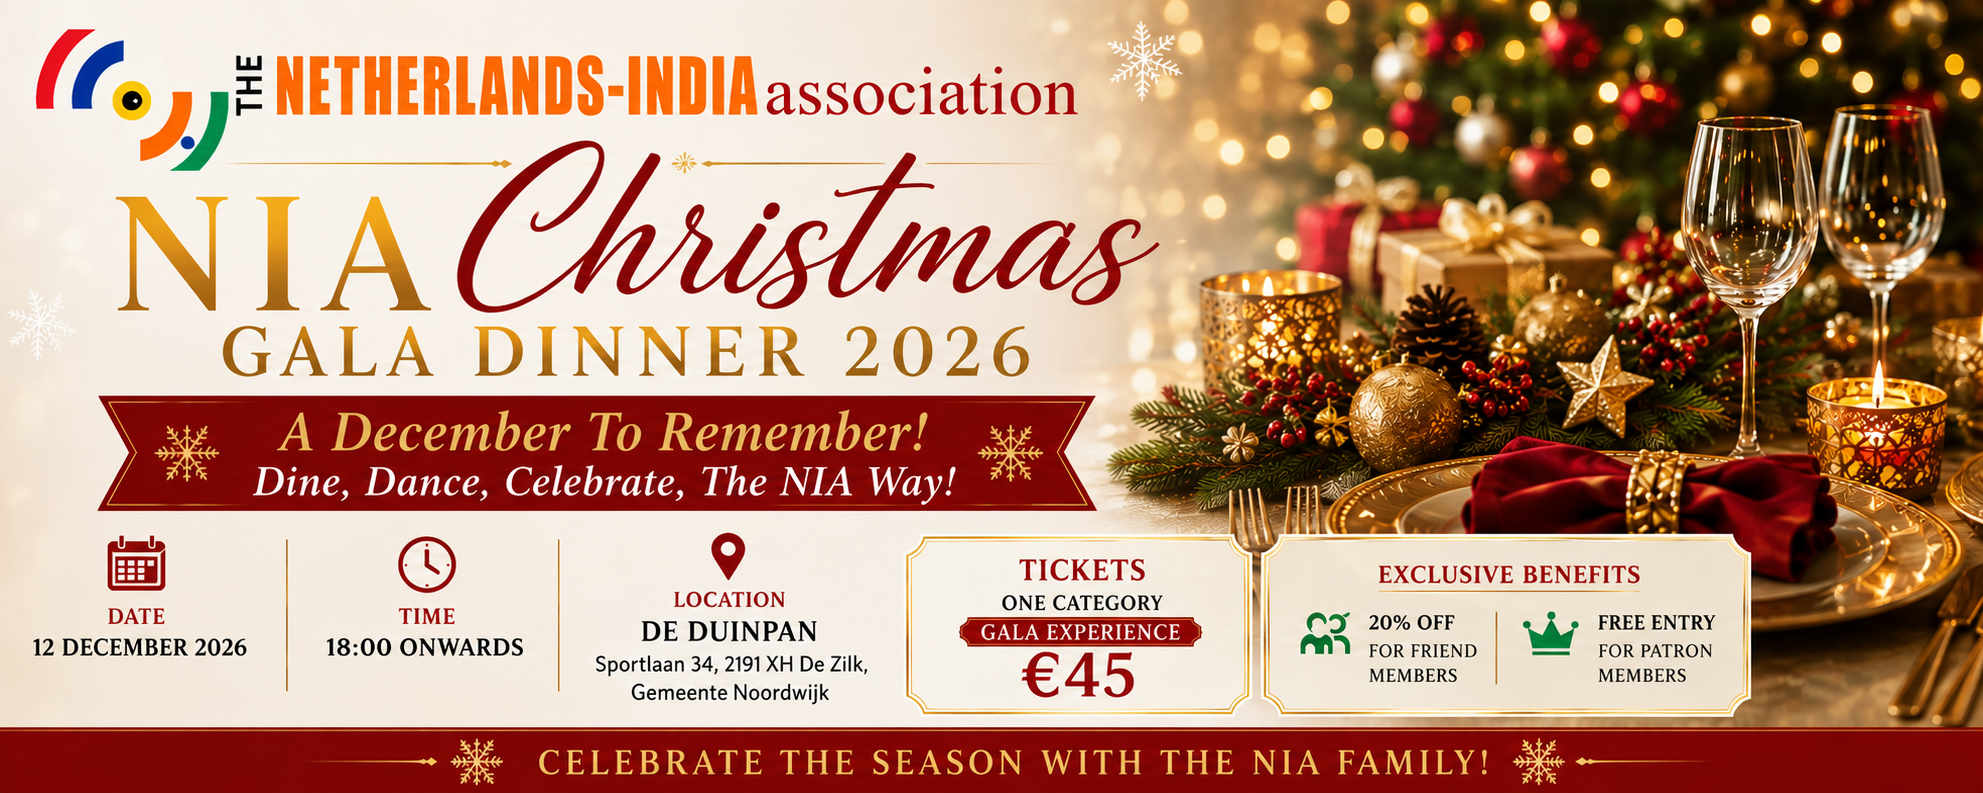
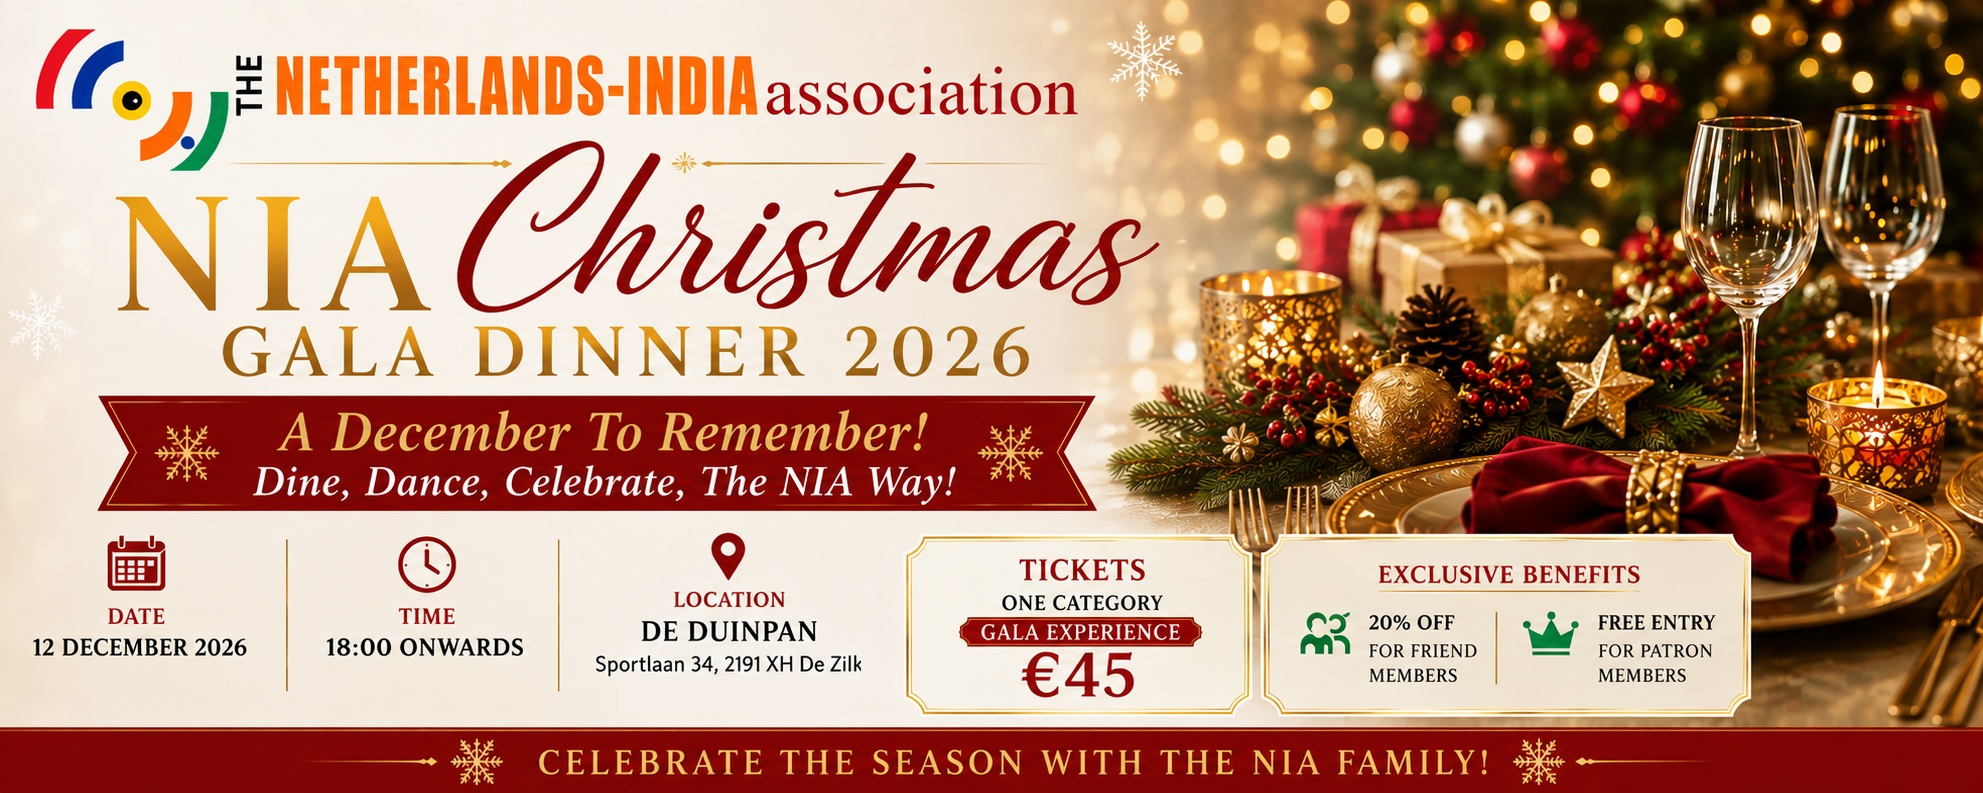
Remove Gemeente Noordwijk from venue address everywhere
Follow-up to the earlier text-only fix (VenueOrganizer.jsx, i18n
venue.secondary) — the Gala hero banner image had the same
"Gemeente Noordwijk" line baked into its pixels. Patched the JPEG
directly: erased that line and the now-dangling trailing comma after
"De Zilk", filled with the exact local background color (the area is
flat cream with no real gradient, confirmed by sampling — a plain
fill blends seamlessly). Verified at both zoomed-in and full-banner
scale before replacing the real asset. Same filename/dimensions, so
no code changes needed elsewhere.

diff --git a/client/src/components/events/VenueOrganizer.jsx b/client/src/components/events/VenueOrganizer.jsx
@@ -17,8 +17,7 @@ export default function VenueOrganizer() {
             <h3 className="venue-org__heading">{t('events.venue.venueHeading')}</h3>
             <p className="venue-org__name">DE DUINPAN</p>
             <p className="venue-org__address">
-              Sportlaan 34, 2191 XH De Zilk<br />
-              Gemeente Noordwijk
+              Sportlaan 34, 2191 XH De Zilk
             </p>
             <a href="https://maps.app.goo.gl/qSfRXG5iMBcR6exs8" target="_blank" rel="noopener noreferrer" className="venue-org__map-btn">
               <FaMapMarkerAlt /> {t('events.venue.viewOnMap')}
